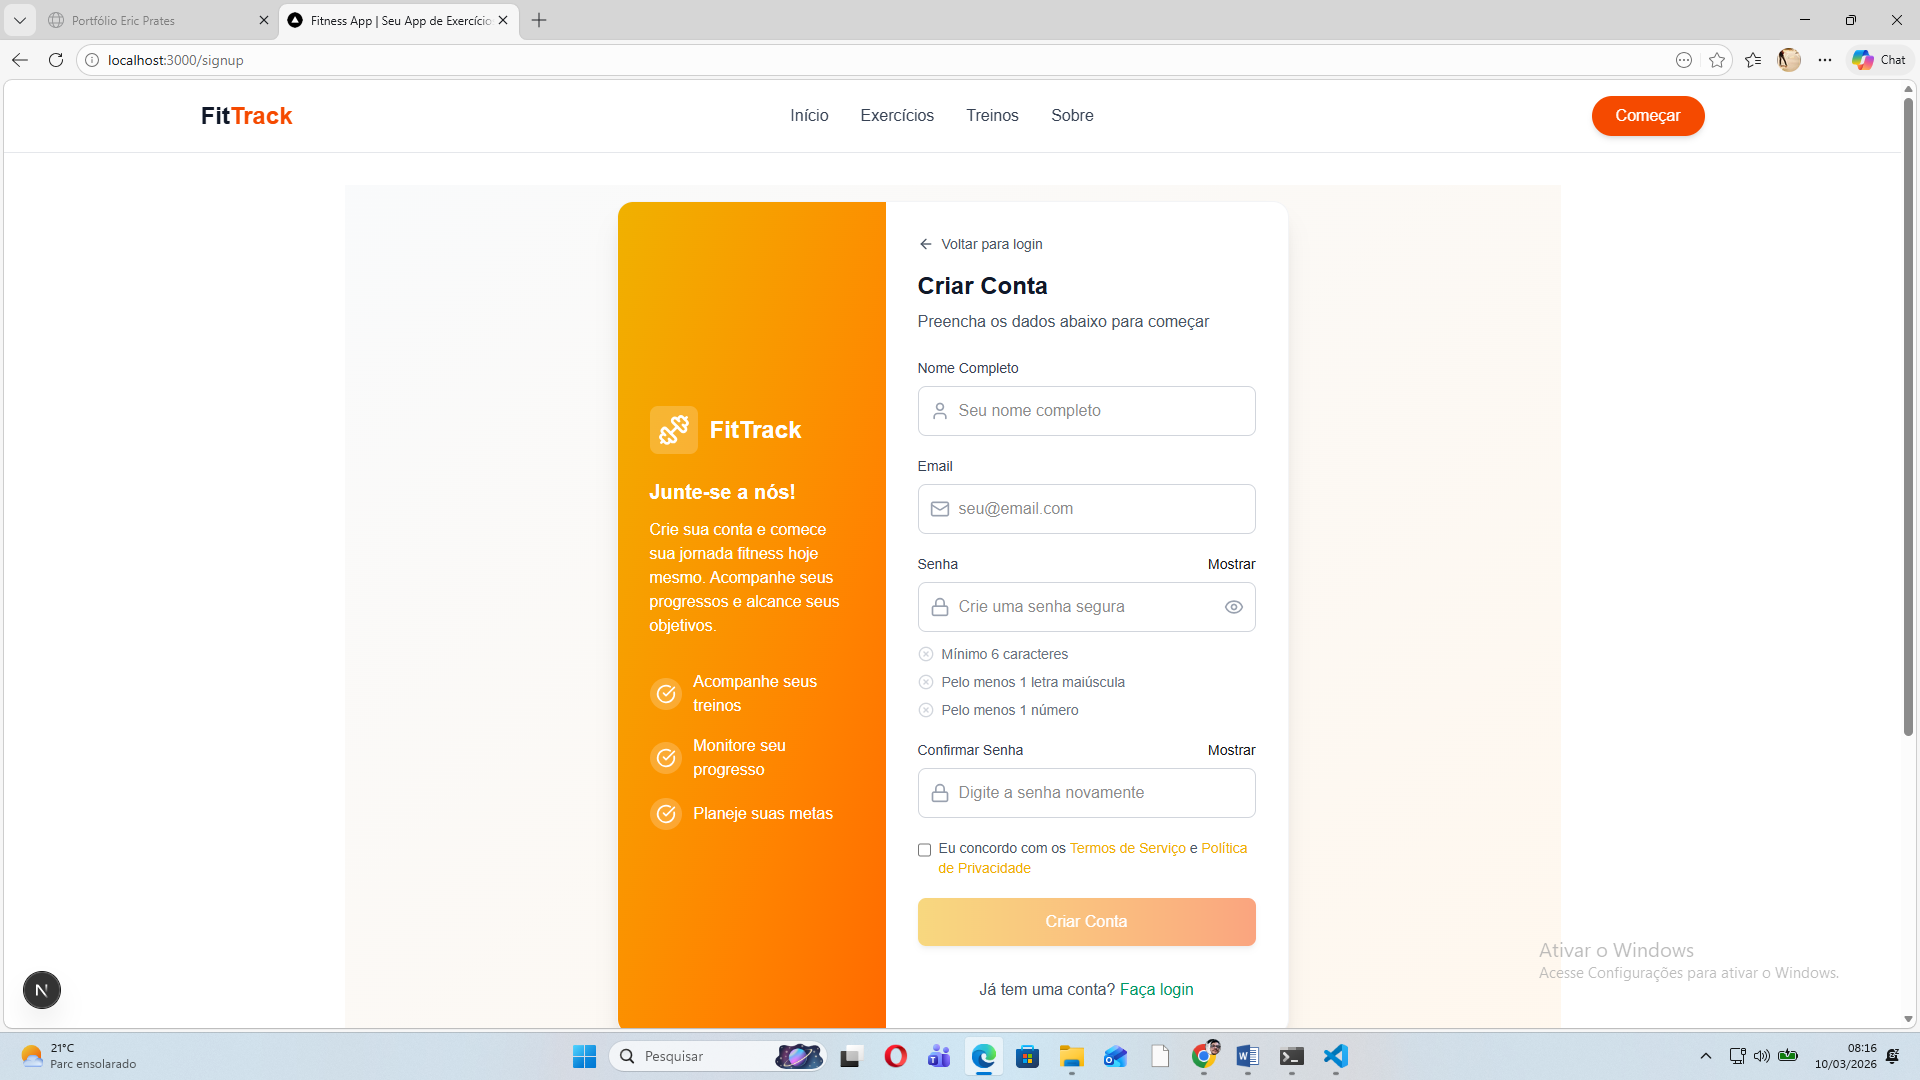
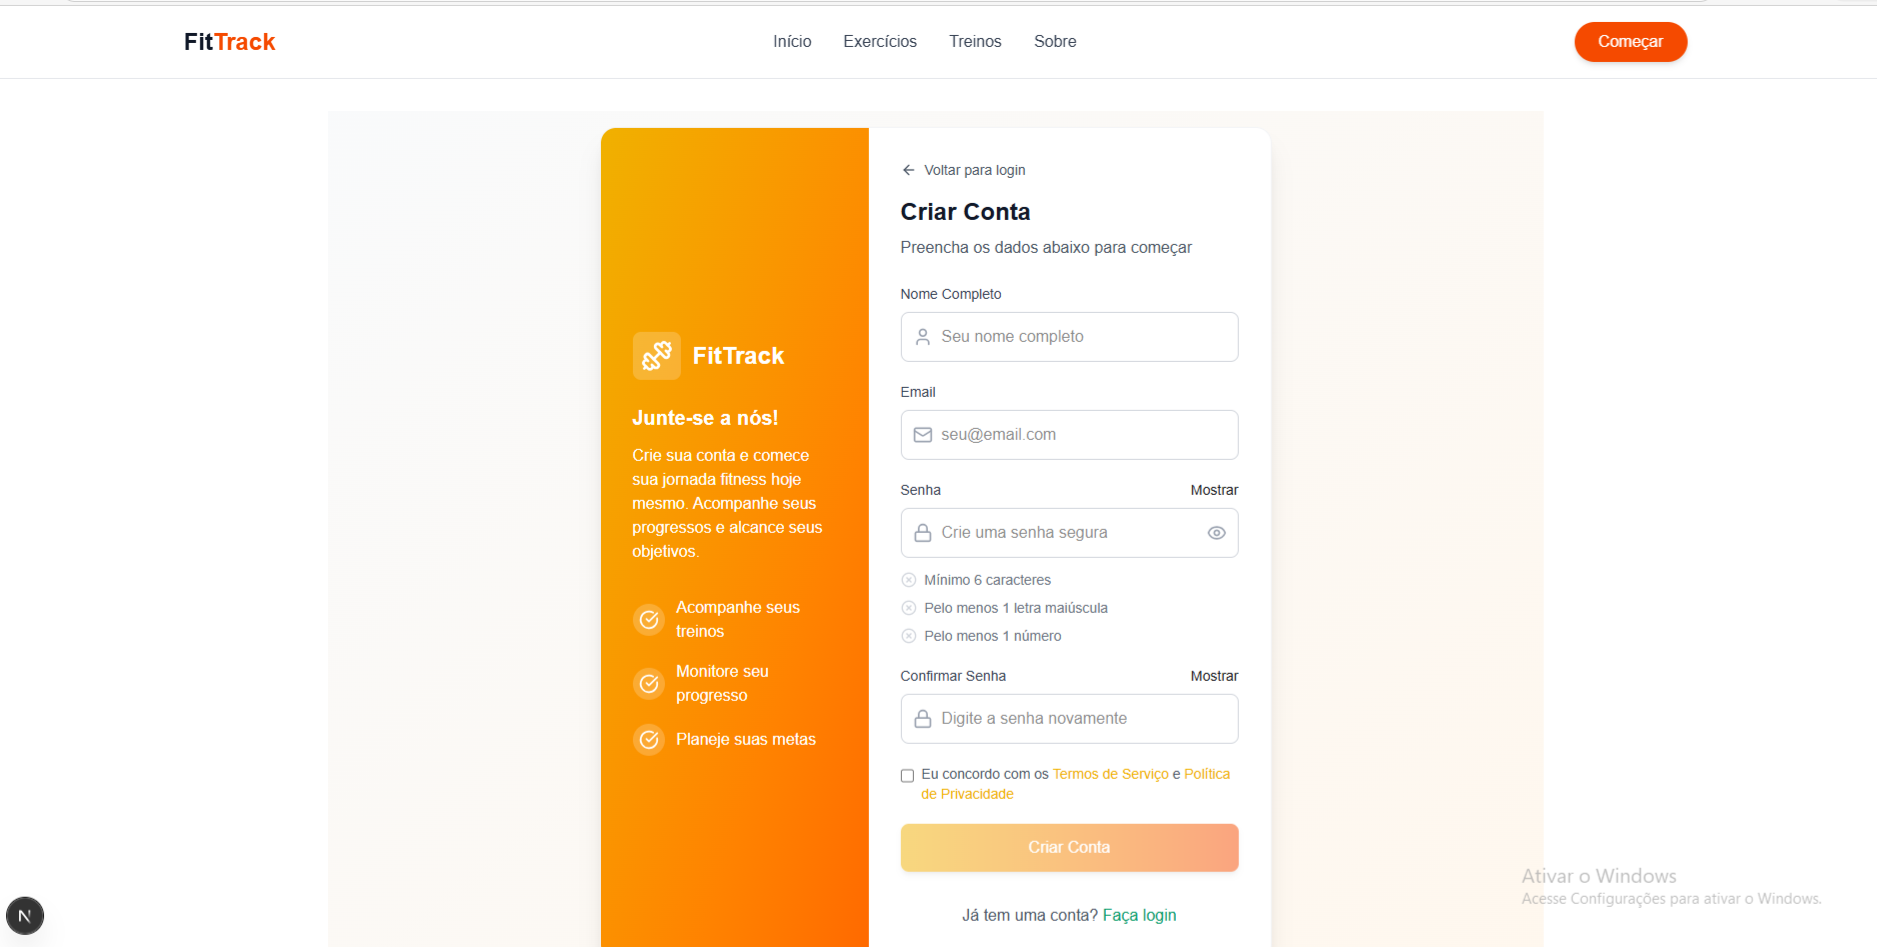
correção de aninhamento do container

diff --git a/index.html b/index.html
@@ -68,6 +68,7 @@
             </p>
             <button class="btn">Ver mais</button>
             <div class="card-content hidden">
+
                 <div class="img-wrapper">
                     <div class="text-container">
                         <h2>Funcionalidades do FitTrack</h2>
@@ -86,25 +87,26 @@
                                 class="project-image">
                         </a>
                     </div>
-                    <div class="img-wrapper">
-                        <div class="text-container">
-                            <h2>Tecnologias Utilizadas</h2>
-                            <ul>
-                                <li class="list-elements">Typescript</li>
-                                <li class="list-elements">Next.js</li>
-                                <li class="list-elements">Consumo de API</li>
-                                <li class="list-elements">Supabase</li>
-                        </div>
-                        <div class="img-container">
-                            <a href="src\img\fitTrackLogin.png" target="_blank">
-                                <img class="img-ss" src="src\img\fitTrackLogin.png" alt="Imagem do projeto FitTrack"
-                                    class="project-image">
-                            </a>
-                        </div>
 
-                    </div>
-                    <button class="btn">Ver menos</button>
                 </div>
+                <div class="img-wrapper">
+                    <div class="text-container">
+                        <h2>Tecnologias Utilizadas</h2>
+                        <ul>
+                            <li class="list-elements">Typescript</li>
+                            <li class="list-elements">Next.js</li>
+                            <li class="list-elements">Consumo de API</li>
+                            <li class="list-elements">Supabase</li>
+                    </div>
+                    <div class="img-container">
+                        <a href="src\img\fitTrackLogin.png" target="_blank">
+                            <img class="img-ss" src="src\img\fitTrackLogin.png" alt="Imagem do projeto FitTrack"
+                                class="project-image">
+                        </a>
+                    </div>
+
+                </div>
+                <button class="btn">Ver menos</button>
             </div>
         </div>
         <div class="project-card">

diff --git a/global.css b/global.css
@@ -15,7 +15,7 @@
   #main-title {
       font-size: 3rem;
       text-align: center;
-      background: linear-gradient(45deg, #3af5b7, #086296);
+      background: linear-gradient(90deg, #0c0892, #3af5b7, #058ddc);
       -webkit-background-clip: text;
       -webkit-text-fill-color: transparent;
       margin-bottom: 10px;
@@ -143,8 +143,6 @@
   .img-wrapper:nth-of-type(2) {
       display: flex;
       flex-direction: row-reverse;
-      margin-left: auto;
-
   }
 
   .img-container:hover {
@@ -167,7 +165,7 @@
       background-color: #2a2a4a;
       width: 50%;
       margin: 1%;
-      padding: 5%;
+      padding: 20px;
       gap: 10px;
       border-radius: 50px;
       animation: sladeInLeft 1s ease-out;
@@ -244,3 +242,5 @@
           transform: translateY(0);
       }
   }
+
+ 
